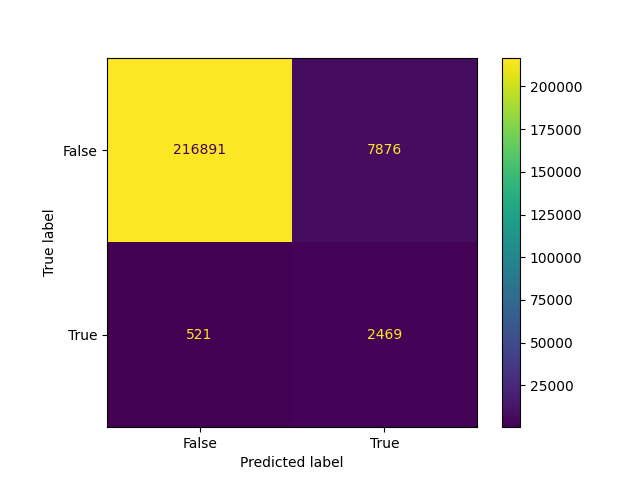
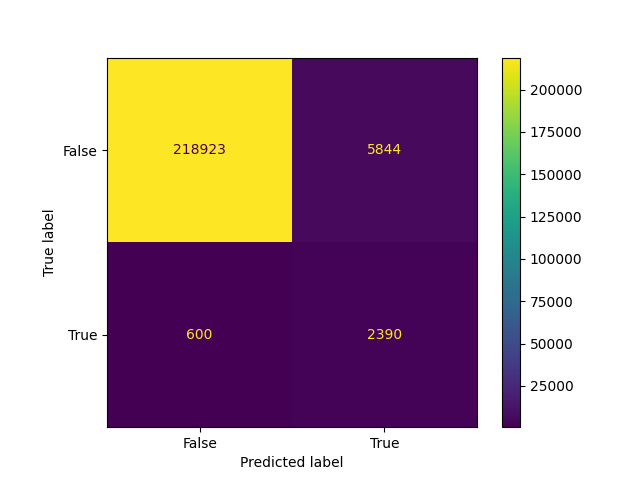
+ First_MLP.py run more epochs

diff --git a/models/Original_MLP/First_MLP.py b/models/Original_MLP/First_MLP.py
@@ -230,7 +230,7 @@ def calculate_accuracy(output, labels):
 train_losses = []
 val_losses = []
 val_accs = []
-for epoch in range(10):  # Adjust epochs as needed
+for epoch in range(60):  # Adjust epochs as needed
     epoch_train_loss = 0.0
     epoch_val_loss = 0.0
 
@@ -264,7 +264,7 @@ for epoch in range(10):  # Adjust epochs as needed
         epoch_val_loss = val_loss.item()
         val_losses.append(epoch_val_loss)
         val_accs.append(epoch_val_acc)
-        print(f"Epoch [{epoch + 1}/10], Training Loss: {avg_epoch_train_loss:.4f}, Validation Loss: {epoch_val_loss:.4f}, Validation Accuracy: {epoch_val_acc:.4f}")
+        print(f"Epoch [{epoch + 1}/60], Training Loss: {avg_epoch_train_loss:.4f}, Validation Loss: {epoch_val_loss:.4f}, Validation Accuracy: {epoch_val_acc:.4f}")
 
 print("######TRAINING DONE######")
 
